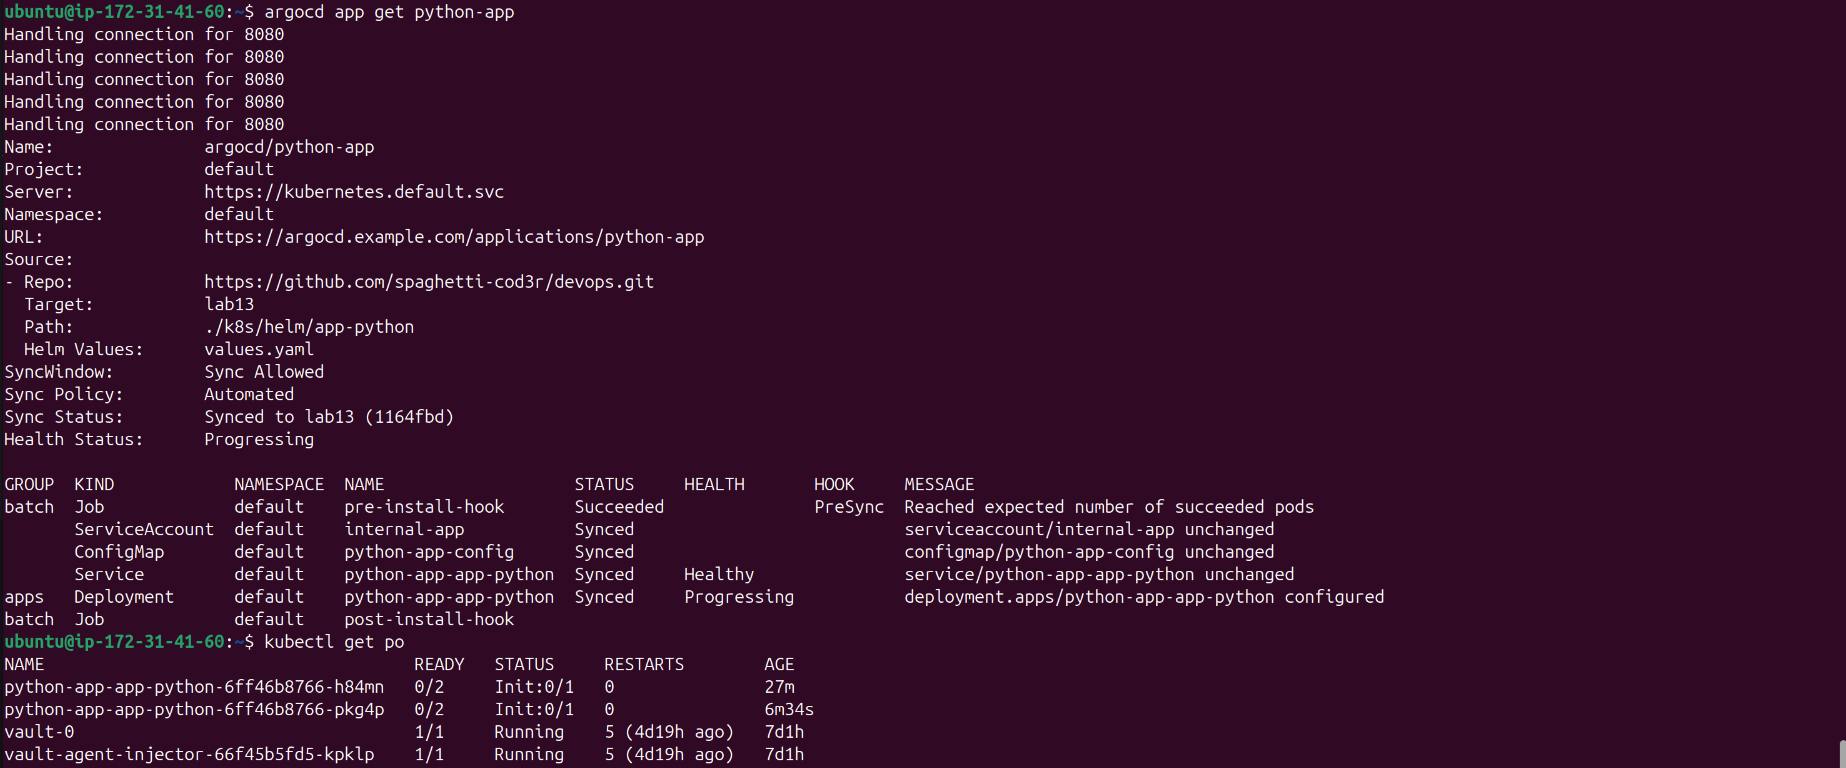
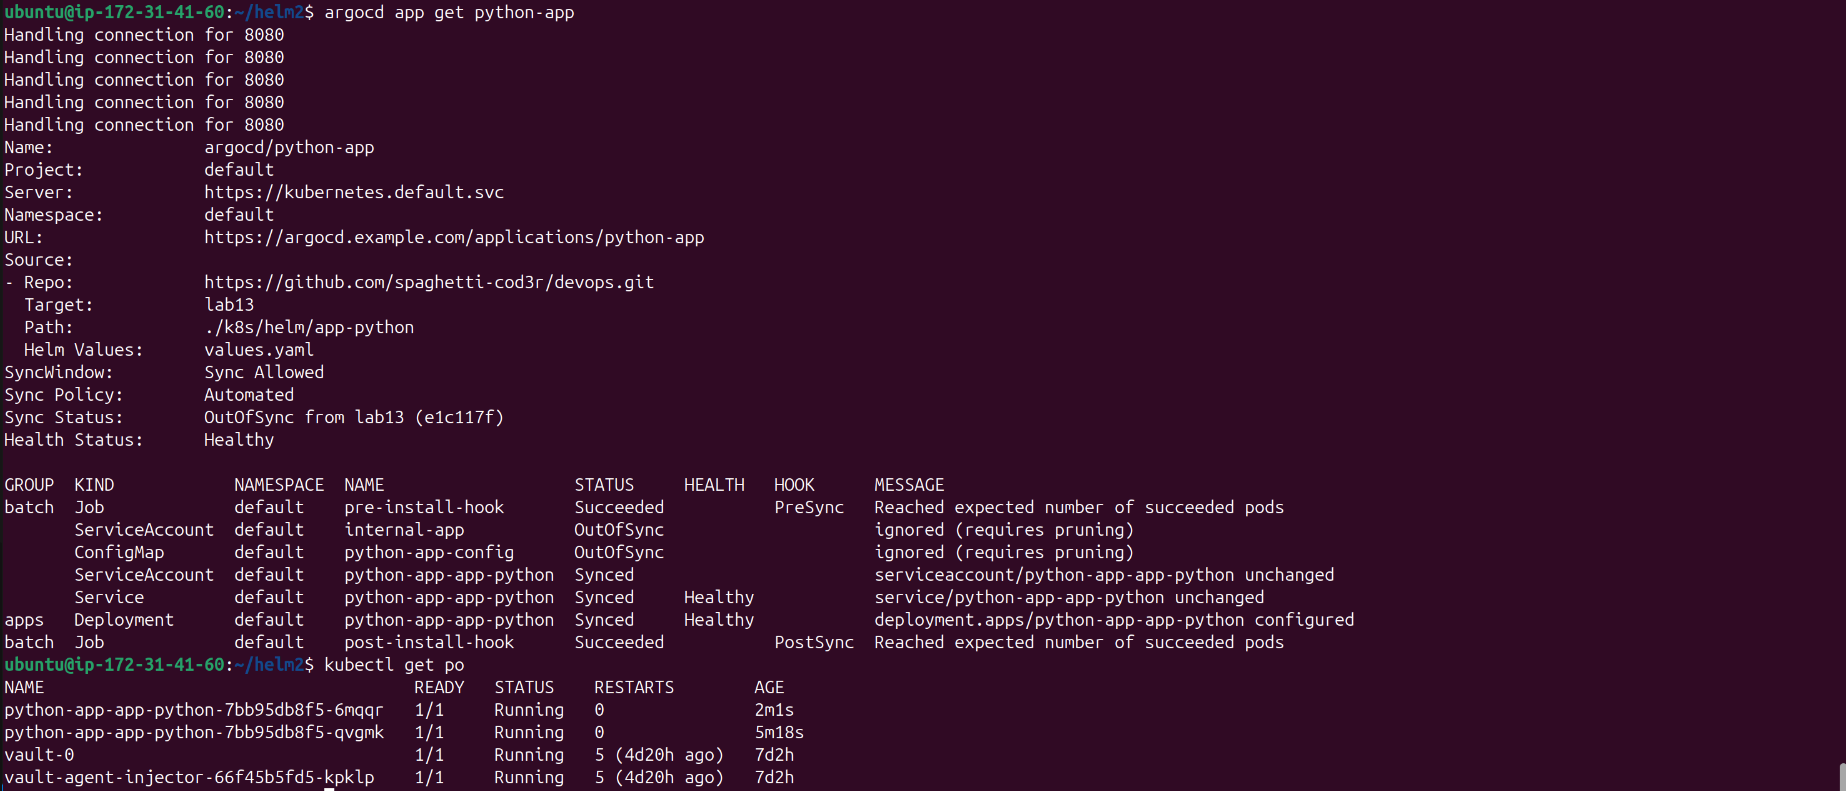
updated values.yaml

Changed region(s): [[0.0, 0.0, 0.7411, 1.0]]

diff --git a/k8s/13.md b/k8s/13.md
@@ -100,15 +100,15 @@
   Handling connection for 8080
   Handling connection for 8080
   TIMESTAMP                  GROUP        KIND       NAMESPACE                  NAME     STATUS    HEALTH        HOOK  MESSAGE
-  2025-03-13T02:04:10+00:00          ConfigMap         default     python-app-config   OutOfSync               
-  2025-03-13T02:04:10+00:00            Service         default  python-app-app-python    Synced   Healthy      
-  2025-03-13T02:04:10+00:00         ServiceAccount     default          internal-app   OutOfSync               
-  2025-03-13T02:04:10+00:00         ServiceAccount     default  python-app-app-python  OutOfSync  Missing      
-  2025-03-13T02:04:10+00:00   apps  Deployment         default  python-app-app-python  OutOfSync  Missing      
-  2025-03-13T02:04:10+00:00  batch         Job     default      pre-install-hook                         
+  2025-03-13T02:04:10+00:00          ConfigMap         default     python-app-config   OutOfSync   
+  2025-03-13T02:04:10+00:00            Service         default  python-app-app-python    Synced   Healthy  
+  2025-03-13T02:04:10+00:00         ServiceAccount     default          internal-app   OutOfSync   
+  2025-03-13T02:04:10+00:00         ServiceAccount     default  python-app-app-python  OutOfSync  Missing  
+  2025-03-13T02:04:10+00:00   apps  Deployment         default  python-app-app-python  OutOfSync  Missing  
+  2025-03-13T02:04:10+00:00  batch         Job     default      pre-install-hook   
   2025-03-13T02:04:12+00:00  batch         Job     default      pre-install-hook   Running   Synced     PreSync  job.batch/pre-install-hook created
-  2025-03-13T02:04:19+00:00         ServiceAccount     default  python-app-app-python    Synced  Missing      
-  2025-03-13T02:04:19+00:00   apps  Deployment     default  python-app-app-python    Synced  Progressing      
+  2025-03-13T02:04:19+00:00         ServiceAccount     default  python-app-app-python    Synced  Missing  
+  2025-03-13T02:04:19+00:00   apps  Deployment     default  python-app-app-python    Synced  Progressing  
   2025-03-13T02:04:21+00:00  batch         Job         default      pre-install-hook   Succeeded   Synced         PreSync  Reached expected number of succeeded pods
   2025-03-13T02:04:21+00:00         ServiceAccount     default          internal-app   OutOfSync                           ignored (requires pruning)
   2025-03-13T02:04:21+00:00          ConfigMap         default     python-app-config   OutOfSync                           ignored (requires pruning)
@@ -185,9 +185,11 @@
   apps   Deployment      default    python-app-app-python  Synced     Healthy            deployment.apps/python-app-app-python created
   batch  Job             default    post-install-hook      Succeeded           PostSync  Reached expected number of succeeded pods
   ```
-- let's change the number of replicas to 2, then push and check again, we can notice how `ArgoCD` update `python-app` and we get 2 new initiated pods:
+- let's change the number of replicas to 2, then push and check again, and sync `python-app`, we notice that we get 2 new initiated pods:
 - img4
 
 ## Task 2:
+
+- 
 
 ## Bonus:
